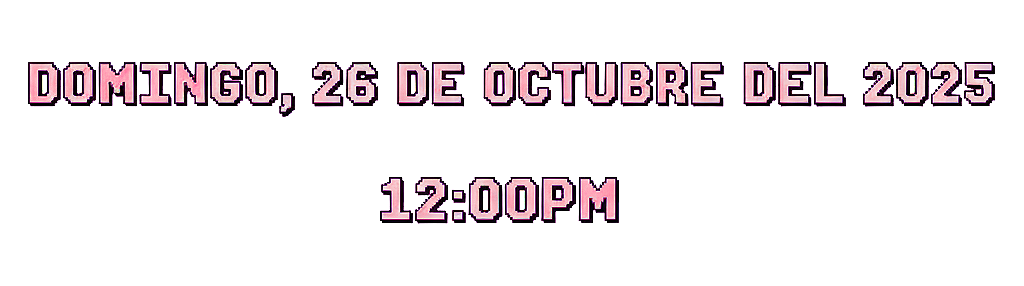
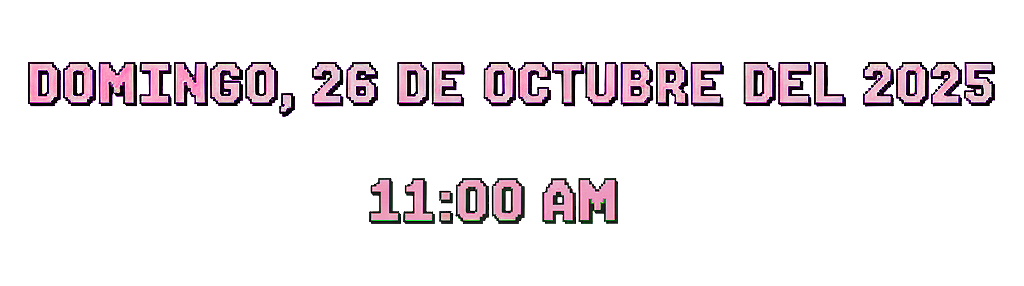
Se ha cambiado la hora del evento

Changed region(s): [[0.3438, 0.6154, 0.625, 0.7832]]

diff --git a/src/fechaHora.tsx b/src/fechaHora.tsx
@@ -3,7 +3,8 @@ import fechaYHora from './media/fechaHora.png';
 const fechaHora = () => {
     return (
         <div id="panelFechaHora">
-            <div class="flex flex-col items-center shrink" >
+            <div class="grid grid-cols-1 justify-items-center" >
+                <p></p>
                 <img class='lg:scale-50 md: w-screen' src={fechaYHora} alt="Fecha y Hora" />
             </div>
         </div>
